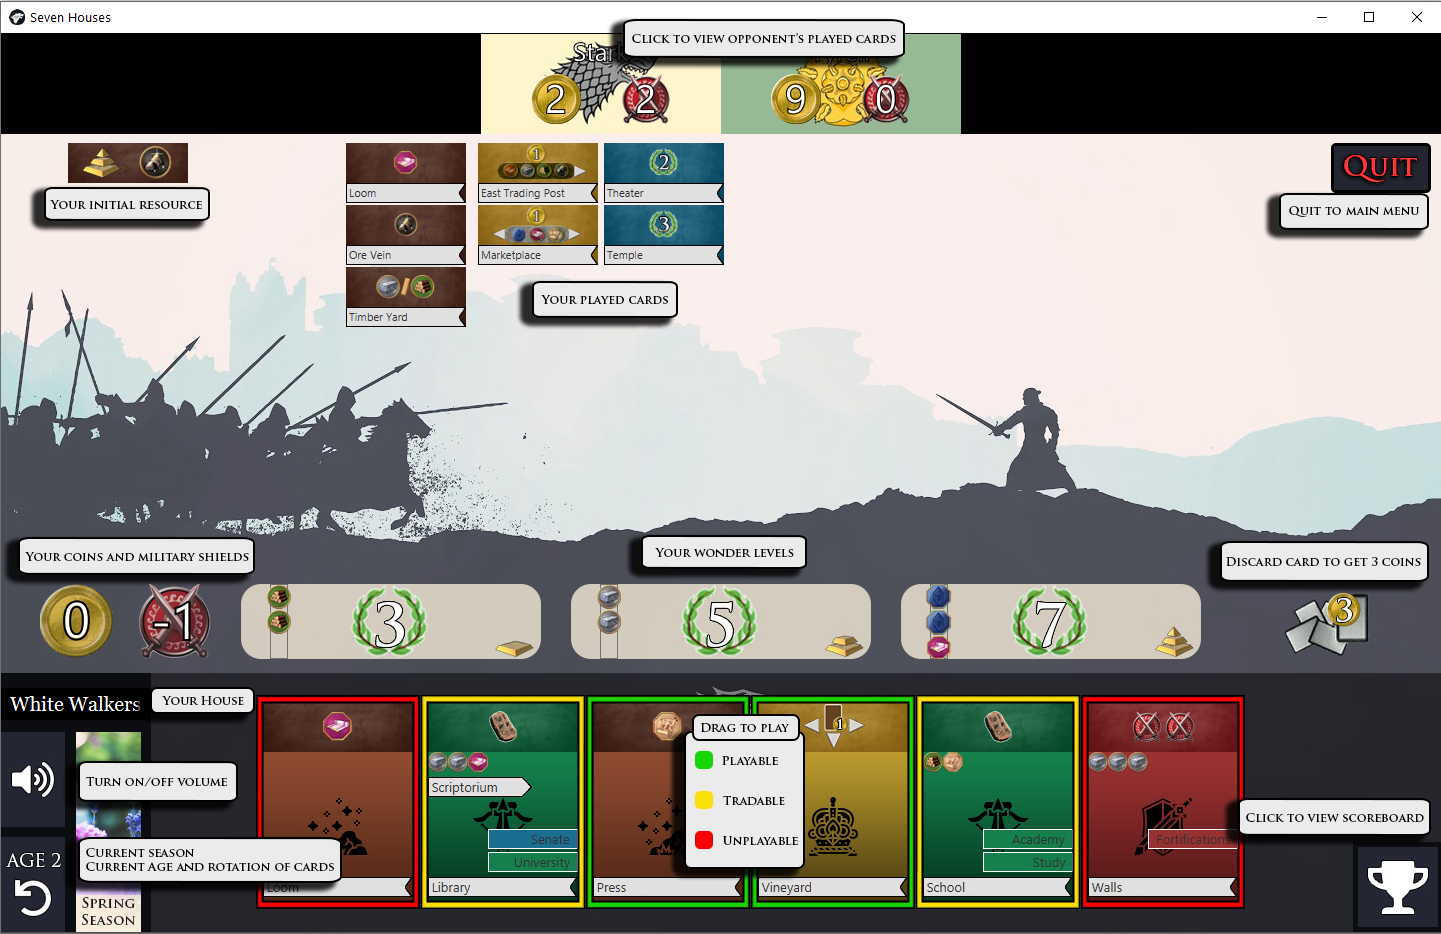
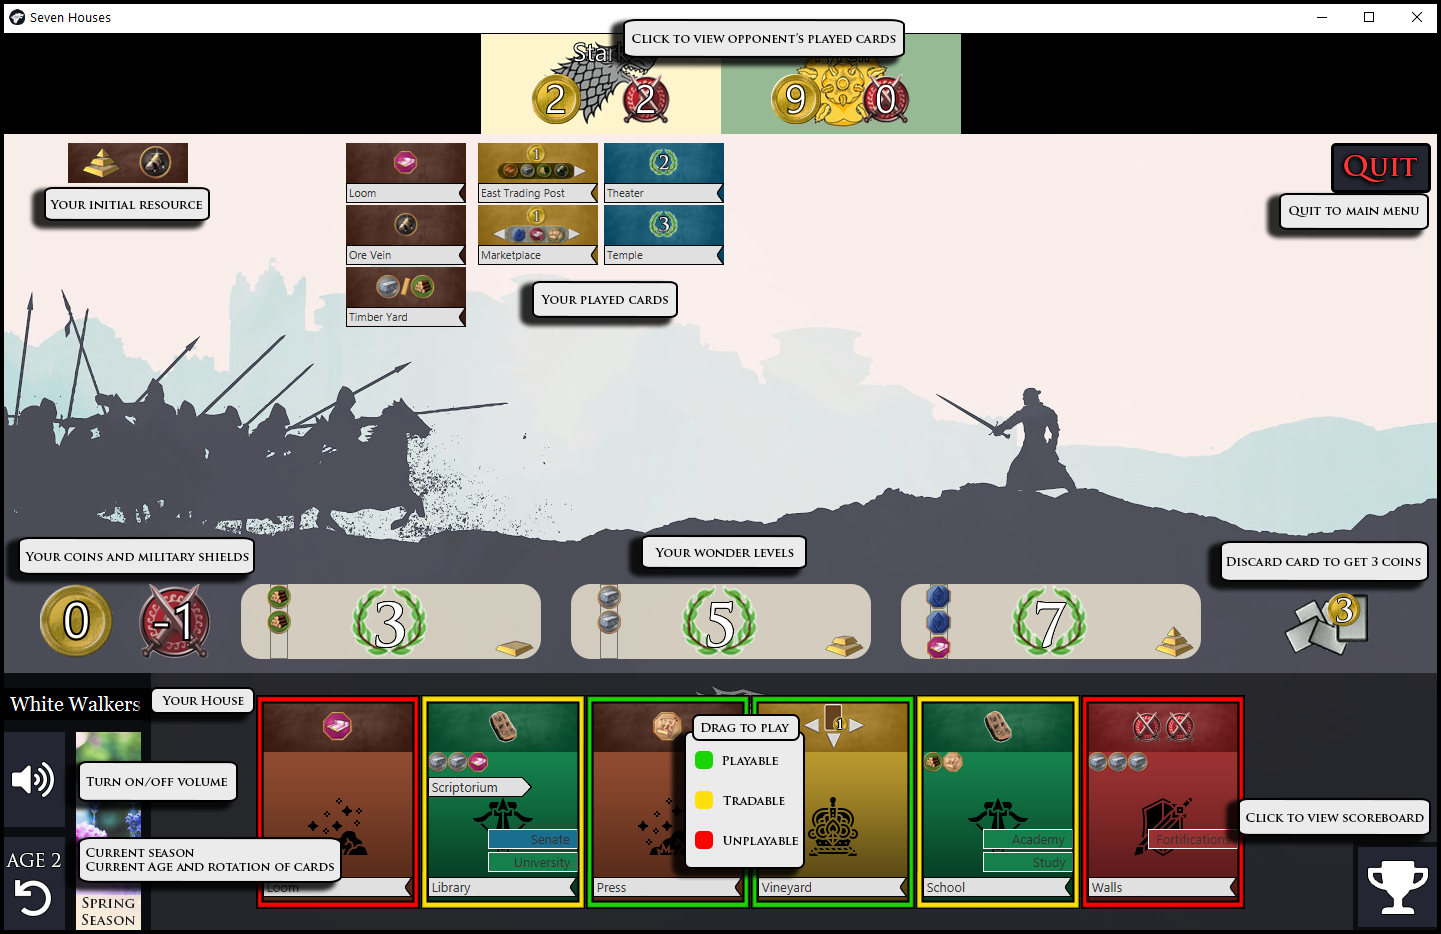
UI tweaks

Changed region(s): [[0.0, 0.0, 1.0, 0.0621], [0.0, 0.9936, 1.0, 1.0], [0.9993, 0.1242, 1.0, 0.9004]]

diff --git a/src/backend/controllers/MainScreenController.java b/src/backend/controllers/MainScreenController.java
@@ -86,12 +86,14 @@ public class MainScreenController implements Initializable  {
     @FXML
     private void howToPlay(){
         howToPlayImage.setVisible(true);
+        backgroundImageView.setOpacity(0.8);
 
     }
 
     @FXML
     private void howToPlayClose(){
         howToPlayImage.setVisible(false);
+        backgroundImageView.setOpacity(1.0);
     }
 
 
